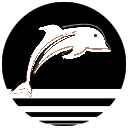
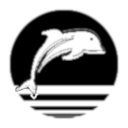
update view

diff --git a/dosis2.html b/dosis2.html
@@ -12,7 +12,7 @@
         }
 
         .scheme {
-
+            padding-top: 50px;
         }
 
         .black {
@@ -116,6 +116,35 @@
         .logo.capitalize {
             font-size: 178px;
         }
+
+        .logotyp {
+            /*height: 138px;*/
+            width: 128px;
+            background: url("softreck_transparent_logo_128.png") no-repeat;
+        }
+
+        .text {
+            display: none;
+            visibility: hidden;
+        }
+        .logo.capitalize {
+            font-size: 178px;
+            /*padding: 0;*/
+            /*margin:0;*/
+        }
+        .logo.capitalize.sentence {
+            line-height: 70px;
+        }
+        .logo.capitalize.sentence img{
+            /*padding-top: -20px;*/
+            margin-top: -30px;
+            /*line-height: 130px;*/
+        }
+        h5 {
+            font-size: 43px;
+            margin-left: 5px;
+            line-height: normal;
+        }
     </style>
 
 </head>
@@ -125,19 +154,21 @@
     <div class="black">
         <div class="text">Softreck</div>
         <div class="text">softreck</div>
-        <div class="logo capitalize">
+        <div class="logo capitalize sentence">
             <div class="first">S</div>
-            <div class="logopic"><img src="softreck_transparent_circle_bw_128.png" alt=""></div>
+            <div class="logopic"><img src="softreck_transparent_circle_bl_128.png" alt=""></div>
             <div class="last">FTRECK</div>
         </div>
+        <h5>Leadership Through Software Development</h5>
+
         <div class="logo">
             <div class="first">S</div>
-            <div class="logopic"><img src="softreck_transparent_circle_bw_128.png" alt=""></div>
+            <div class="logopic"><img src="softreck_transparent_circle_bl_128.png" alt=""></div>
             <div class="last">ftreck</div>
         </div>
         <div class="logo">
             <div class="first">s</div>
-            <div class="logopic"><img src="softreck_transparent_circle_bw_128.png" alt=""></div>
+            <div class="logopic"><img src="softreck_transparent_circle_bl_128.png" alt=""></div>
             <div class="last">ftreck</div>
         </div>
     </div>
@@ -146,11 +177,13 @@
     <div class="scheme negative">
         <div class="text">Softreck</div>
         <div class="text">softreck</div>
-        <div class="logo capitalize">
+        <div class="logo capitalize sentence">
             <div class="first">S</div>
             <div class="logopic"><img src="softreck_transparent_circle_white_128.png" alt=""></div>
             <div class="last">FTRECK</div>
         </div>
+        <h5>Leadership Through Software Development</h5>
+
         <div class="logo">
             <div class="first">S</div>
             <div class="logopic"><img src="softreck_transparent_circle_white_128.png" alt=""></div>

diff --git a/dosis1.html b/dosis1.html
@@ -12,7 +12,7 @@
         }
 
         .scheme {
-
+            padding-top: 50px;
         }
 
         .black {
@@ -115,6 +115,21 @@
         }
         .logo.capitalize {
             font-size: 178px;
+            /*padding: 0;*/
+            /*margin:0;*/
+        }
+        .logo.capitalize.sentence {
+            line-height: 70px;
+        }
+        .logo.capitalize.sentence img{
+            /*padding-top: -20px;*/
+            margin-top: -30px;
+            /*line-height: 130px;*/
+        }
+        h5 {
+            font-size: 43px;
+            margin-left: 5px;
+            line-height: normal;
         }
     </style>
 
@@ -125,11 +140,13 @@
     <div class="black">
         <div class="text">Softreck</div>
         <div class="text">softreck</div>
-        <div class="logo capitalize">
+        <div class="logo capitalize sentence">
             <div class="first">S</div>
             <div class="logopic"><img src="softreck_transparent_logo_black_128.png" alt=""></div>
             <div class="last">FTRECK</div>
         </div>
+        <h5>Leadership Through Software Development</h5>
+
         <div class="logo">
             <div class="first">S</div>
             <div class="logopic"><img src="softreck_transparent_logo_black_128.png" alt=""></div>
@@ -144,13 +161,16 @@
 
 
     <div class="scheme negative">
+
         <div class="text">Softreck</div>
         <div class="text">softreck</div>
-        <div class="logo capitalize">
+        <div class="logo capitalize sentence">
             <div class="first">S</div>
             <div class="logopic"><img src="softreck_transparent_logo_white_128.png" alt=""></div>
             <div class="last">FTRECK</div>
         </div>
+        <h5>Leadership Through Software Development</h5>
+
         <div class="logo">
             <div class="first">S</div>
             <div class="logopic"><img src="softreck_transparent_logo_white_128.png" alt=""></div>

diff --git a/index.html b/index.html
@@ -8,6 +8,7 @@
 
 </head>
 <body>
+<h2>Leadership Through Software Development</h2>
 <a href="dosis1.html">dosis1.html</a>
 <a href="dosis2.html">dosis2.html</a>
 </body>
